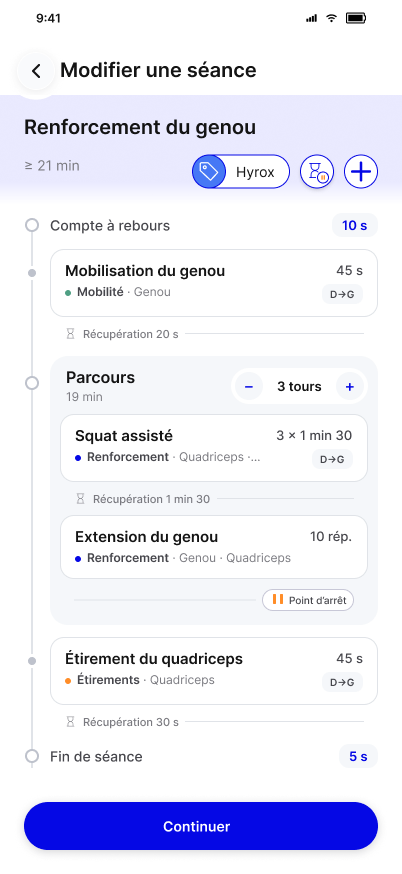
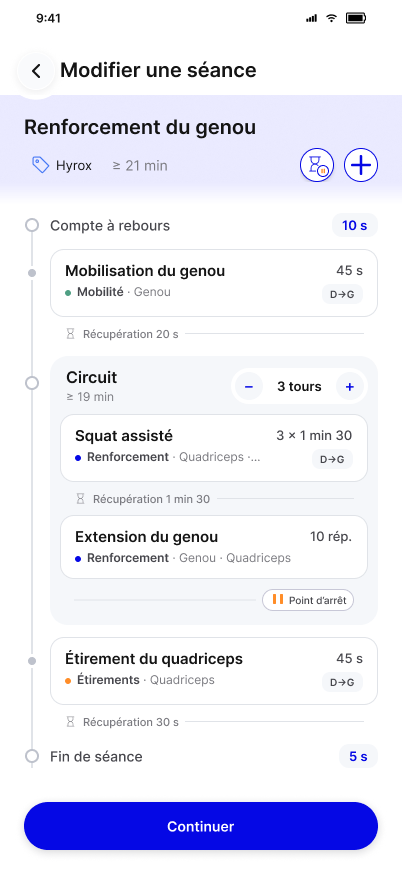
docs: terminer le contrôle des 44 captures Figma restantes

diff --git a/docs/Specifications-fonctionnelles/06 – Ecrans et navigation de la V1.md b/docs/Specifications-fonctionnelles/06 – Ecrans et navigation de la V1.md
@@ -1010,6 +1010,12 @@ Exports directs des 23 états de Composition retrouvés dans Prototype MVP. Les 
 
 ![Composition séance — Standard — Séries variables](images/circuits-2026-10-12/8328-34520.png)
 
+#### Modification d'une séance
+
+[Source Figma — `5271:5455`](https://www.figma.com/design/G6RY5Ebhgwb4AHIOYDwwvg?node-id=5271-5455)
+
+![Modification d'une séance](images/figma-5271-5455.png)
+
 ### Placement, réglage et retrait des pauses
 
 #### Composition séance — Placement d’une pause
@@ -1161,6 +1167,12 @@ Le tableau variable comporte poignée, numéro, cellules cible/Pause et retrait 
 [Source Figma — `8328:36278`](https://www.figma.com/design/G6RY5Ebhgwb4AHIOYDwwvg?node-id=8328-36278)
 
 ![Ajouter un exercice — Catégorie renseignée](images/circuits-2026-10-12/8328-36278.png)
+
+#### Modifier un exercice
+
+[Source Figma — `4734:6342`](https://www.figma.com/design/G6RY5Ebhgwb4AHIOYDwwvg?node-id=4734-6342)
+
+![Modifier un exercice](images/figma-4734-6342.png)
 
 ### Feuille Modalités d’exécution — états intégrés
 
@@ -1332,7 +1344,7 @@ Catégorie marquée au toucher puis confirmée par ✓ ; ✕ conserve la Catégo
 
 ### Couverture et limites
 
-Les états hérités (N et total non modifiables), validation incomplète, douze séries avec défilement, phrase longue et plusieurs résumés spécialisés ne disposent pas d’une nouvelle frame identifiée dans ce relevé. Leurs règles restent requises. Les anciennes captures ne sont pas présentées comme des preuves actuelles de ces états. L’écran Modifier un exercice `4734:6342` et la modification de séance `5271:5455` sont hors réexport de ce lot ; leurs contrats restent applicables.
+Les états hérités (N et total non modifiables), validation incomplète, douze séries avec défilement, phrase longue et plusieurs résumés spécialisés ne disposent pas d’une nouvelle frame identifiée dans ce relevé. Leurs règles restent requises. Les anciennes captures ne sont pas présentées comme des preuves actuelles de ces états. Les captures de Modifier un exercice `4734:6342` et de Modification d’une séance `5271:5455` sont intégrées ci-dessus dans leur famille d’écran respective ; leurs contrats restent applicables.
 
 Le corpus de phrases et les spécifications déterminent les textes dynamiques, le gras et les calculs ; les valeurs derrière les voiles ne sont pas des recettes. Les captures sont des exports sans retouche.
 
@@ -1532,6 +1544,20 @@ Frame `1992:6838` ; [Figma](https://www.figma.com/design/G6RY5Ebhgwb4AHIOYDwwvg?
 Frame `7599:14197` ; [Figma](https://www.figma.com/design/G6RY5Ebhgwb4AHIOYDwwvg?node-id=7599-14197).
 
 ![Modal — Planifier une séance — Sélectionner une séance](images/figma-7599-14197.png)
+
+Les deux captures « Liste longue » ci-dessous ont été exportées le 15/10/2026. Elles illustrent la présentation des listes, mais montrent encore une sélection unique sans CTA « Ajouter ». Elles ne remplacent pas le contrat CE-UI-04 : sélection à cases et CTA « Ajouter 1 élément » / « Ajouter n éléments ».
+
+#### Modal — Choisir une séance — Planification — Liste longue
+
+[Source Figma — `1992:6249`](https://www.figma.com/design/G6RY5Ebhgwb4AHIOYDwwvg?node-id=1992-6249)
+
+![Modal — Choisir une séance — Planification — Liste longue](images/figma-1992-6249.png)
+
+#### Modal — Choisir un exercice — Planification — Liste longue
+
+[Source Figma — `5451:4272`](https://www.figma.com/design/G6RY5Ebhgwb4AHIOYDwwvg?node-id=5451-4272)
+
+![Modal — Choisir un exercice — Planification — Liste longue](images/figma-5451-4272.png)
 
 #### Planifier une séance — Sélecteur de date ouvert
 
@@ -2792,3 +2818,4 @@ Nœud [8747:14451](https://www.figma.com/design/G6RY5Ebhgwb4AHIOYDwwvg?node-id=8
 Nœud [8795:14588](https://www.figma.com/design/G6RY5Ebhgwb4AHIOYDwwvg?node-id=8795-14588) · Contrat [CE-FMT-04](13%20–%20Contrats%20d’écran.md#ce-fmt-04). Capture du layout courant ; données illustratives.
 
 ![Modification activité — Paramètres (modale) — Exercice EMOM — Par exercice](images/formats-2026-10-14/figma-8795-14588.png)
+
